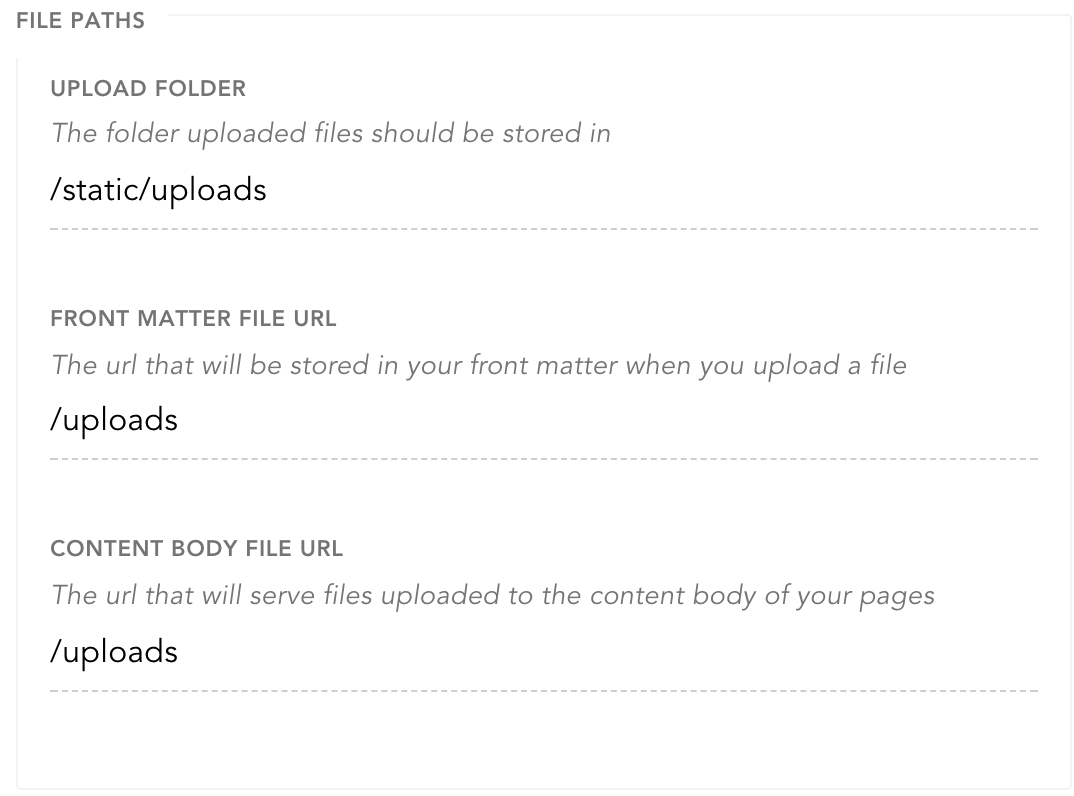
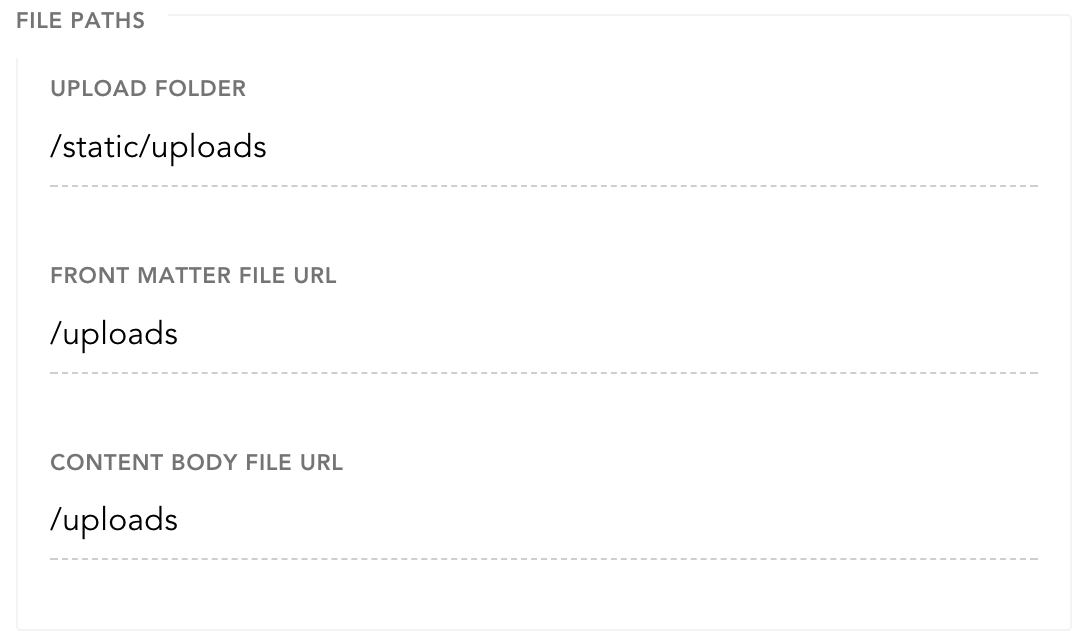
updated content and image

diff --git a/hugo/content/docs/welcome/configure-CMS.md b/hugo/content/docs/welcome/configure-CMS.md
@@ -29,9 +29,23 @@ Go to **Settings > File Paths**
 
 ![](/uploads/2018/01/settings.png)
 
+Often, the upload directory will be different from the public path used to access your media file. For this reason, there are multiple options.
+
 ![](/uploads/2018/01/file-paths.png)
 
-Often, the upload directory will be different from the public path used to access your media file. For this reason, for this reason, we have multiple options here.
+**Upload Folder**
+The folder within your repo to store the uploaded media
+
+**Font Matter File URL**
+The path to prepend images with when saving them to your Front Matter fields. Eg.
+
+```
+title: My new post
+publishdate: 2017-12-07 04:00:00 +0000
+image: /uploads/image.jpg
+```
+
+**Content Body URL**
 
 In the case of Hugo, your static files must be located in the `/static` directory, but when your site is compiled, those images are publicly viewable from the root of your project.  So `/static/images/file.jpg` becomes `/images/file.jpg`.
 
